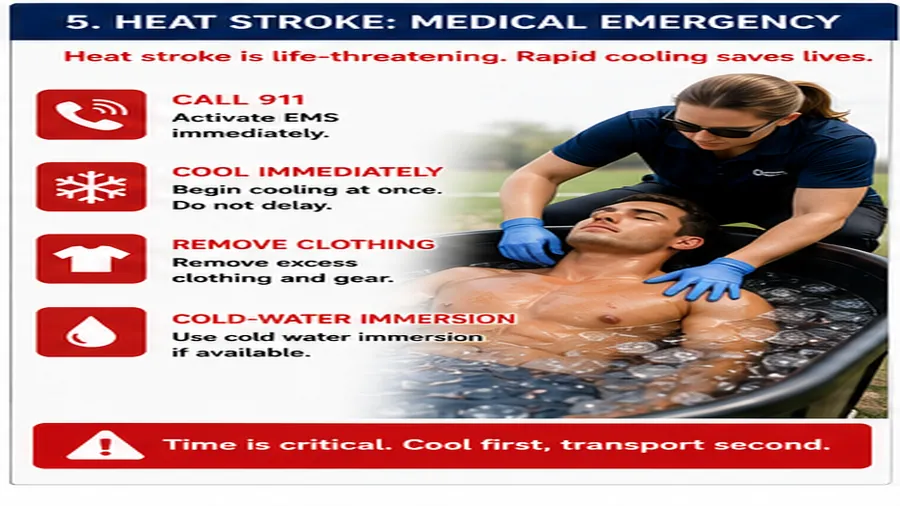
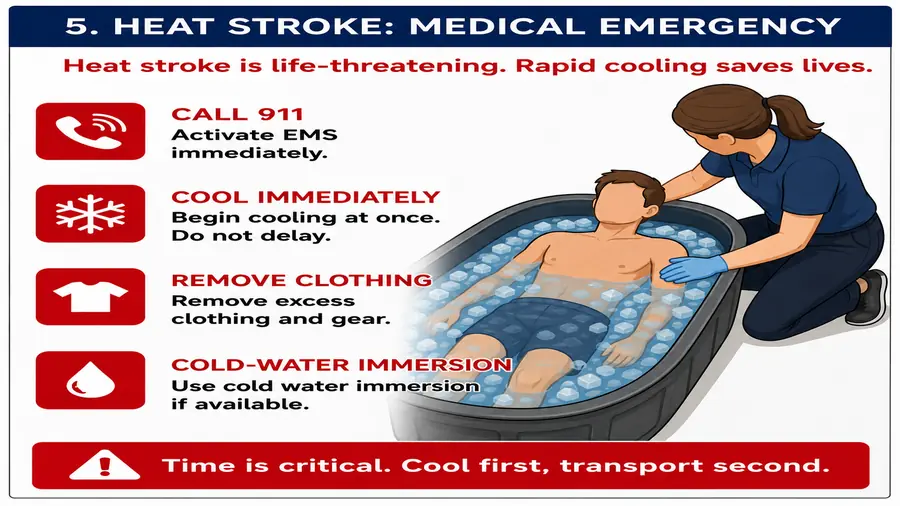
Land B6 3/3 - the photoreal people are gone
Mechanically the cleanest delivery of the project: correct per-card dimensions
including the one 16:9 card, every file smaller than the photoreal original it
replaced, and the requested 343px renders included. All three are fresh redraws.

warning-signs drops the photoreal woman entirely for a sun-over-field motif,
keeping all seven warning-sign lines, the header and the footer strip.
heat-stroke-emergency has both figures illustrated with the immersion tub and
managing adult preserved, and its margins improved - the original had content
touching the right edge at R0, the redraw has R8. sweat-cooling has the runner
illustrated and face-turned-away and also carries the B5 legibility fix in the
same redraw, which is what both briefs asked for: the four body paragraphs that
dissolved at phone size are gone and the four step headings are enlarged.

Verified rather than assumed. Margins were compared against the originals rather
than against a flat 12px rule, because two of these are bordered or full-bleed
designs where the naive measure reports a false zero - the handoff warns about
exactly that trap. The legibility claim was checked with the stroke-merge test at
true 343px: all four step headings resolve with intact letterforms. Browser-
verified at 375px, 0 placeholders, 0 console errors, 0 failed requests.

Two of the three JSON descriptions had never matched their art. heat-stroke-
emergency described a collapsed athlete with a kneeling teammate; the image has
[…]

diff --git a/docs/HANDOFF.md b/docs/HANDOFF.md
@@ -84,8 +84,38 @@ hands) are fine and welcome; faces should be illustrated or absent.
    a visibly withdrawn teammate.
 3. **What is actually prohibited is photorealism in a *person*.** The audit found
    exactly three violations, all in heat-illness, all predating this rule (batch 4,
-   landed before the style note was written on 2026-07-27). See correction batch
-   B6.
+   landed before the style note was written on 2026-07-27).
+
+✅ **B6 DELIVERED AND LANDED 3/3 — 2026-08-17.** Mechanically flawless: correct
+per-card dimensions including the one 16:9 card, every file *smaller* than the
+photoreal original it replaced (49.7 / 50.9 / 54.3 KB, down from 55.5 / 55.9 /
+59.6), and the requested 343 px renders included. All three redraws are fresh, not
+pixel edits.
+
+- `heat-illness-warning-signs` — the photoreal woman is **gone entirely**, replaced
+  by a sun-over-field motif. All seven warning-sign lines, the header and the
+  footer strip are intact.
+- `heat-illness-heat-stroke-emergency` — both figures now illustrated, immersion
+  tub and managing adult preserved. **Margins improved**: the original had content
+  touching the right edge (R0); the redraw has R8.
+- `heat-illness-sweat-cooling` — runner illustrated and face-turned-away, **and**
+  the B5 legibility fix done in the same redraw: the four body paragraphs that
+  dissolved at 343 px are removed and the four step headings enlarged. Verified by
+  stroke-merge test at true 343 px — all four headings resolve with intact
+  letterforms.
+
+Browser-verified at 375 px: all three render, 0 placeholders, 0 console errors,
+0 failed requests, no overflow, each displayed at exactly 343 px.
+
+⚠ **Two of the three JSON descriptions had never matched their art, since batch
+4.** `heat-stroke-emergency` described "an athlete who has collapsed on the field
+with a teammate kneeling beside them" — the image has always been a tub immersion
+with an adult. `sweat-cooling` said "no text in the image" when half the card is a
+labelled process panel. Both were reconciled along with `warning-signs`, whose art
+genuinely changed. **This is the third time a slot description has described
+something the art never contained** (see the mandible card's phantom
+force-transmission arrow). When landing any image, diff the `description` against
+what is actually on the card rather than assuming it was right before.
 
 **The test, stated so it does not drift again:** ask *"is this a photograph or a
 photoreal render of a person?"* — not *"is there a face?"* A face is a normal part
